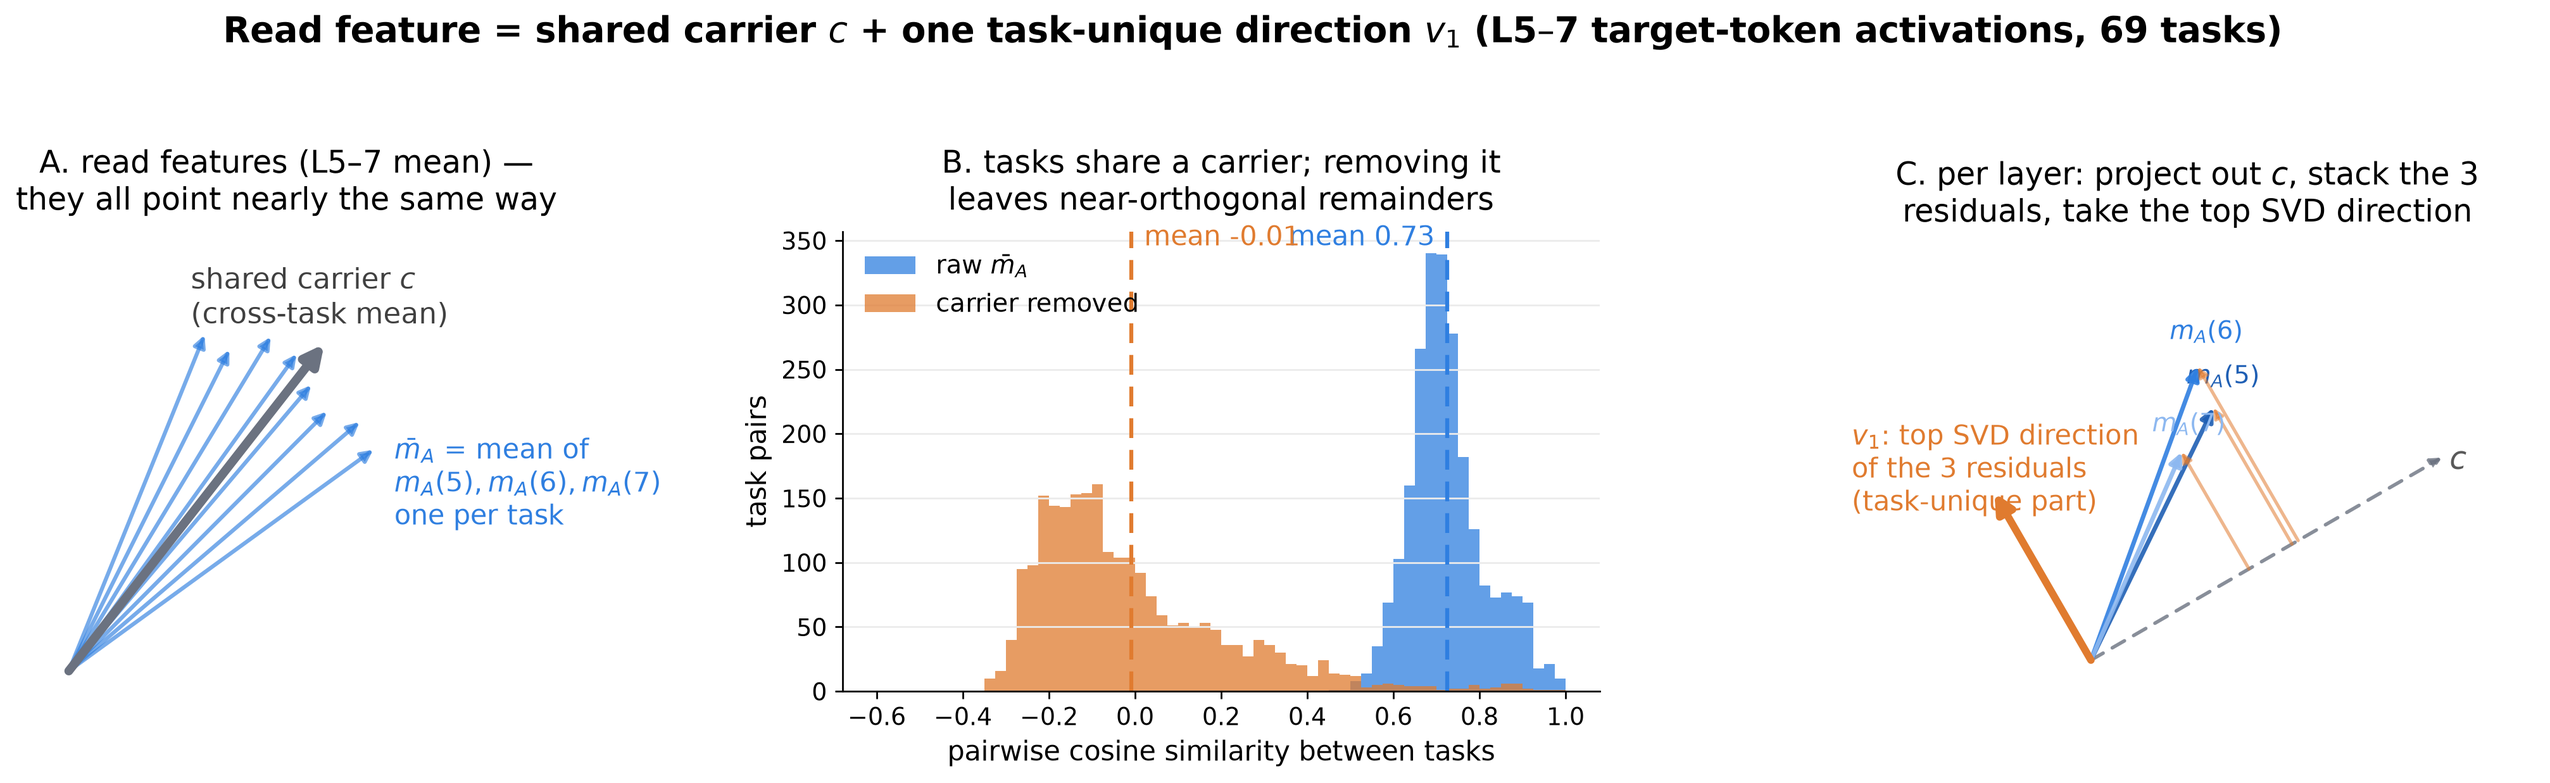
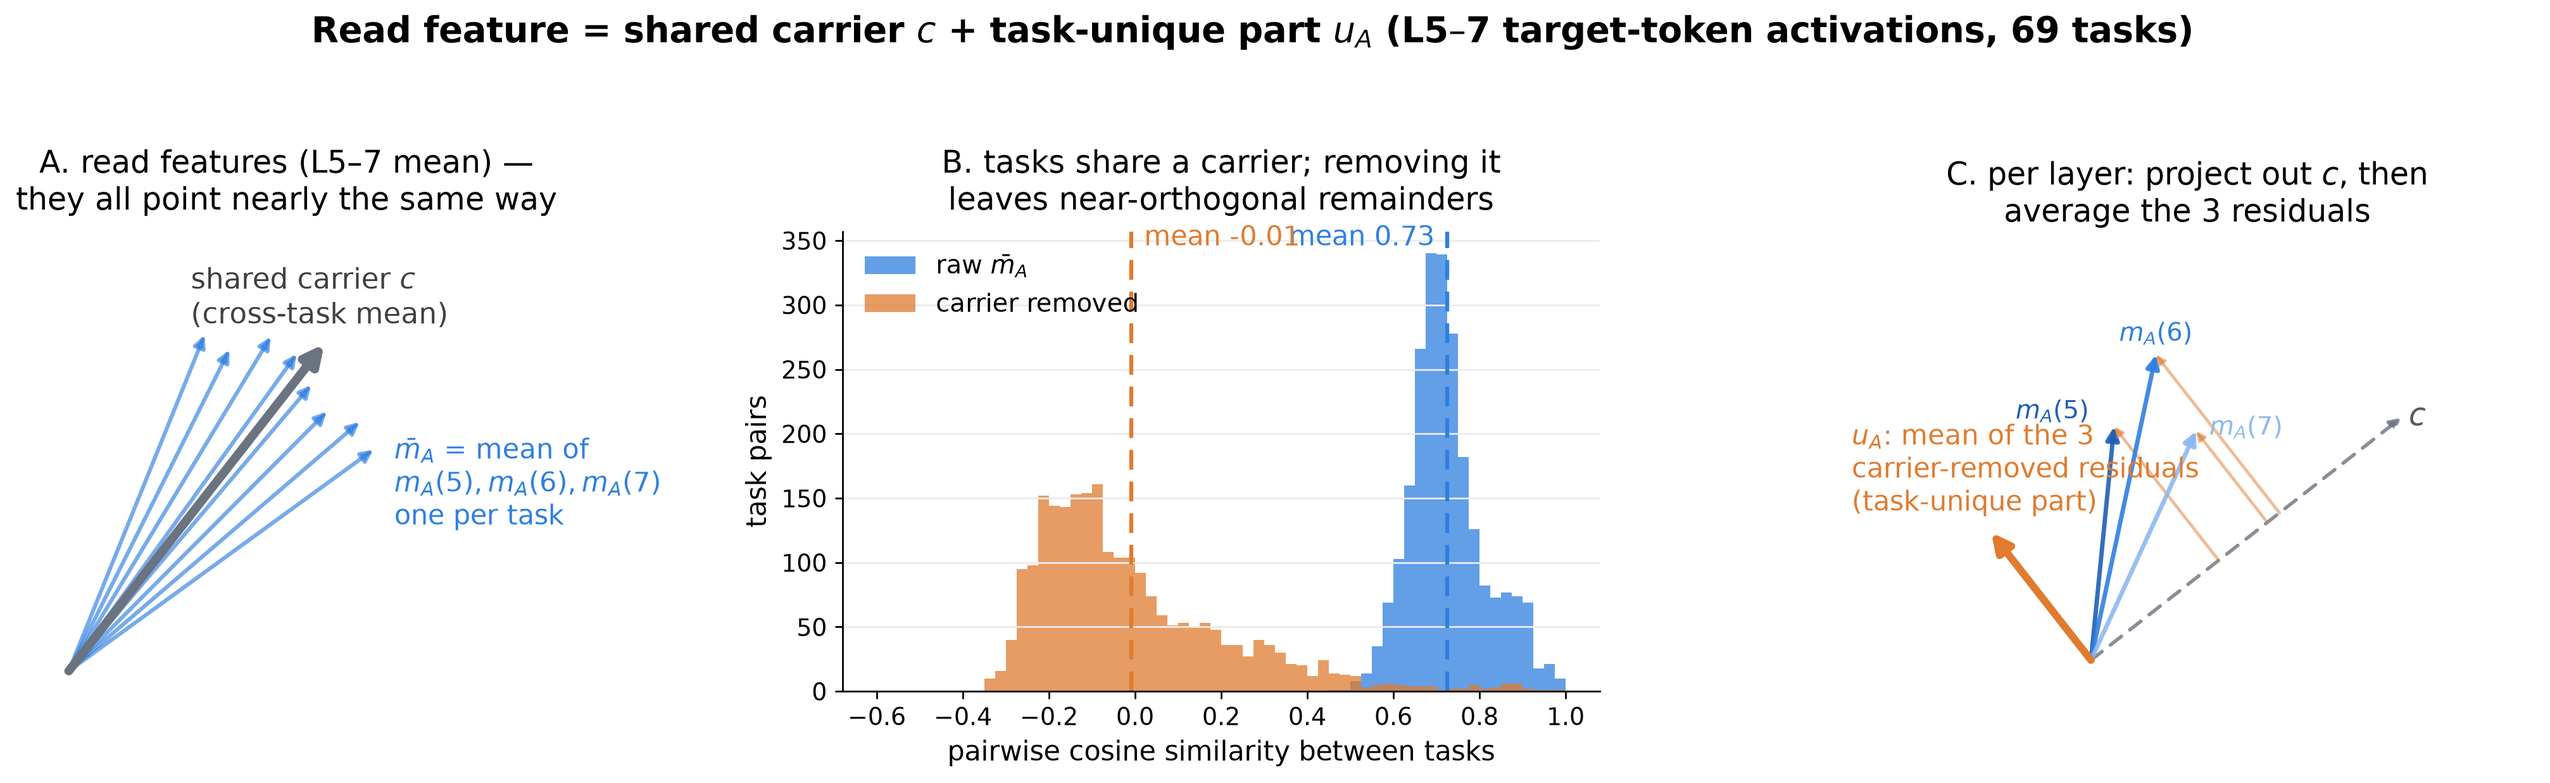
Task-unique part = mean of carrier-removed L5-7 residuals (u_A); s_A = c + u_A headline steering
Claim 3 main text switched from the SVD top-1 / n_A definition to the mean-residual
u_A (natural magnitude, no SVD). Ablation and L0 steering reproduce the SVD numbers
to <=0.002. Appendix I table gains the s_A row; SVD composite kept as labelled variant.
Explainer figure panel C now: project out c, then average the 3 residuals.

diff --git a/src/eval_scripts/make_readfeature_explainer.py b/src/eval_scripts/make_readfeature_explainer.py
@@ -142,32 +142,36 @@ def main():
     ax.set_title("B. tasks share a carrier; removing it\nleaves near-orthogonal remainders",
                  fontsize=14, pad=10)
 
-    # ---------- C: per-layer projection + stack + SVD (conceptual) ----------
+    # ---------- C: per-layer projection, then average (conceptual) ----------
     ax = axes[2]
-    th_c = np.deg2rad(30)
+    th_c = np.deg2rad(38)
     cdir = np.array([np.cos(th_c), np.sin(th_c)])
-    perp = np.array([-cdir[1], cdir[0]])                      # true task-unique direction
-    arrow(ax, 0, 0, *(1.05 * cdir), GRAY, lw=1.6, ls=(0, (4, 3)), alpha=0.8, head=10)
-    ax.annotate("$c$", 1.05 * cdir + np.array([0.02, -0.03]), fontsize=14, color="0.35")
+    perp = np.array([-cdir[1], cdir[0]])
+    arrow(ax, 0, 0, *(1.02 * cdir), GRAY, lw=1.6, ls=(0, (4, 3)), alpha=0.8, head=10)
+    ax.annotate("$c$", 1.02 * cdir + np.array([0.02, -0.02]), fontsize=14, color="0.35")
     cols = ("#1f5fb4", BLUE, "#8db8f0")
-    # three layer means: same carrier-ish component, slightly different residual sizes/tilts
-    specs = ((0.50, 0.42, -14), (0.62, 0.52, 0), (0.56, 0.36, 14))   # (along c, along perp, tilt deg)
+    specs = ((0.42, 0.44, -18), (0.62, 0.52, 0), (0.58, 0.30, 18))   # (along c, along perp, tilt deg)
+    resids = []
     for k, ((a, b, tilt), col) in enumerate(zip(specs, cols)):
-        rdir = np.array([np.cos(np.deg2rad(90 + 30 + tilt)), np.sin(np.deg2rad(90 + 30 + tilt))])
-        m = a * cdir + b * rdir
-        proj = float(m @ cdir) * cdir
+        rot = np.deg2rad(tilt)
+        r_dir = np.cos(rot) * perp + np.sin(rot) * cdir
+        r_dir = r_dir - (r_dir @ cdir) * cdir; r_dir /= np.linalg.norm(r_dir)
+        m = a * cdir + b * r_dir
+        proj = (m @ cdir) * cdir
         arrow(ax, 0, 0, *m, col, lw=2.0, alpha=0.9, head=12)
-        arrow(ax, *proj, *m, ORANGE, lw=1.5, alpha=0.55, head=9)   # residual = m - proj
-        ax.annotate(f"$m_A({5 + k})$", m * 1.08 + np.array([0.0, 0.01]), fontsize=11.5,
-                    color=col, ha="center")
-    arrow(ax, 0, 0, *(0.50 * perp), ORANGE, lw=3.4, head=17)
-    ax.annotate("$v_1$: top SVD direction\nof the 3 residuals\n(task-unique part)",
+        arrow(ax, *proj, *m, ORANGE, lw=1.4, alpha=0.5, head=8)
+        offs = (np.array([-0.16, 0.02]), np.array([0.0, 0.035]), np.array([0.13, -0.01]))[k]
+        ax.annotate(f"$m_A({5 + k})$", m + offs, fontsize=11.5, color=col, ha="center")
+        resids.append(m - proj)
+    u = np.mean(resids, axis=0)
+    arrow(ax, 0, 0, *u, ORANGE, lw=3.4, head=17)
+    ax.annotate("$u_A$: mean of the 3\ncarrier-removed residuals\n(task-unique part)",
                 (-0.62, 0.62), fontsize=12.5, color=ORANGE, ha="left", va="top")
     ax.set_xlim(-0.65, 1.15); ax.set_ylim(-0.05, 1.08)
-    ax.set_title("C. per layer: project out $c$, stack the 3\nresiduals, take the top SVD direction",
+    ax.set_title("C. per layer: project out $c$, then\naverage the 3 residuals",
                  fontsize=14, pad=10)
 
-    fig.suptitle("Read feature = shared carrier $c$ + one task-unique direction $v_1$ "
+    fig.suptitle("Read feature = shared carrier $c$ + task-unique part $u_A$ "
                  "(L5–7 target-token activations, 69 tasks)", fontsize=16, fontweight="bold")
     fig.tight_layout(rect=[0, 0, 1, 0.92])
     fig.savefig(OUT / "readfeature_decomposition.png", bbox_inches="tight")

diff --git a/src/eval_scripts/plot_69_taskunique_L5to7_top1.py b/src/eval_scripts/plot_69_taskunique_L5to7_top1.py
@@ -31,9 +31,10 @@ from src.utils.paths import ARTIFACTS_ROOT, TASK69_RUN_DIR  # noqa: E402
 
 import os
 _BANKA = os.environ.get("BANKA") == "1"
-AR = ARTIFACTS_ROOT / "69_task_run" / "bottom_up_ablation" / ("bankA_L5to7_top1" if _BANKA else "meanremoved_L5to7_top1")
+_MR = os.environ.get("MEANRESID") == "1"
+AR = ARTIFACTS_ROOT / "69_task_run" / "bottom_up_ablation" / ("bankA_meanresid_top1" if _MR else ("bankA_L5to7_top1" if _BANKA else "meanremoved_L5to7_top1"))
 ABL = TASK69_RUN_DIR / "bottom_up_read_features" / "ablation"
-OUT = ABL / "task_unique_top1_L5to7"
+OUT = ABL / ("task_unique_meanresid" if _MR else "task_unique_top1_L5to7")
 
 JSON_CONDS = ("mean_ablation_pc5", "zero_ablation_pc5",
               "cf_mean_ablation_pc5", "cf_zero_ablation_pc5")   # names inside the JSONs
@@ -56,7 +57,7 @@ def main():
         for n in (1, 6):
             r = json.load(open(AR / f"n{n}shot" / f"{t}.json"))
             assert r["n_prompts"] == 150 and r["cf_task"] == rows[t]["cf_task"]
-            assert r["rank"] == 1 and "L5to7_top1_bases" in r["bases_path"]
+            assert r["rank"] == 1 and ("meanresid_top1_bases" if _MR else "L5to7_top1_bases") in r["bases_path"]
             for jc, cc in zip(JSON_CONDS, MR1):
                 rows[t][f"n{n}_{cc}"] = r["conditions"][jc]["acc"]
 

diff --git a/src/eval_scripts/plot_l67top1_sixshot.py b/src/eval_scripts/plot_l67top1_sixshot.py
@@ -61,7 +61,7 @@ def main():
     def m(k):
         return float(np.mean([r[k] for r in rows]))
 
-    is_c = _NAME.startswith("ctop1")
+    is_c = _NAME.startswith(("ctop1", "meanresid"))
     lay = os.environ.get("L67_SIXSHOT_SUB", "sixshot").replace("sixshot_", "") or "L1"
     lay = lay if lay.startswith("L") else "L1"
     vname = "$u_A$" if is_c else "$w_A$"

diff --git a/write_up/read_and_write_features_for_in_context_learning_paper_draft.md b/write_up/read_and_write_features_for_in_context_learning_paper_draft.md
@@ -133,7 +133,7 @@ readable at target tokens (Claim 2). The dashed line is the mean accuracy of a r
 1-shot demonstration (0.208), so the single best-layer injection recovers a majority of real demonstration accuracy.*
 
 There is a peak of steering ability around L5-L7, so we take the mean activations of those
-three layers and decompose them. Averaging over the three layers gives one vector per task, $\bar m_A = \tfrac13\sum_{\ell=5}^{7} m_A(\ell)$, and these vectors are very similar across tasks - cosine similarity of 0.73. This suggests that all these activations point along a similar direction, which we call the **shared carrier** $c$, the cross-task mean. We then take each layer's mean activation from L5-L7 for each task and project out the shared carrier and stack the 3 vectors into a matrix and do SVD to extract the top SVD direction,  $v_1$. We define this as the task-unique part.
+three layers and decompose them. Averaging over the three layers gives one vector per task, $\bar m_A = \tfrac13\sum_{\ell=5}^{7} m_A(\ell)$, and these vectors are very similar across tasks - cosine similarity of 0.73. This suggests that all these activations point along a similar direction, which we call the **shared carrier** $c$, the cross-task mean. We then take each layer's mean activation from L5-L7 for each task, project out the shared carrier direction, and average the three residuals to get a single vector $u_A$. We define this as the task-unique part; it keeps its natural magnitude, so no further scaling is needed.
 
 $$
 c \;=\; \frac{1}{|\mathcal{T}|}\sum_{A'} \bar m_{A'}, \qquad
@@ -142,20 +142,22 @@ r_A(\ell) \;=\; m_A(\ell) - \big\langle m_A(\ell),\, \hat c(\ell)\big\rangle\, \
 $$
 
 $$
-v_1 \;=\; \text{top singular direction of } \begin{bmatrix} \hat r_A(5) \\ \hat r_A(6) \\ \hat r_A(7) \end{bmatrix}
-\quad (\hat r_A(\ell) = r_A(\ell)/\|r_A(\ell)\|),
+u_A \;=\; \frac{1}{3}\sum_{\ell=5}^{7} r_A(\ell),
 $$
 
-where $\hat c(\ell)$ is the **cross-task** carrier direction at layer $\ell$ and the SVD is over a $3 \times
-d_{\mathrm{model}}$ matrix with one row per layer.
+where $\hat c(\ell)$ is the **cross-task** carrier direction at layer $\ell$ — the task's own
+mean is never subtracted, only the shared component — so $u_A$ is orthogonal to the carrier
+by construction. (The top singular direction of the three residuals, an alternative
+definition, agrees with $\hat u_A$ to $|\cos| \ge 0.997$ on every task; Appendix F.)
 
 ![Read-feature decomposition into shared carrier and task-unique part](../results/69_task_run/bottom_up_read_features/ablation/explainer_visuals/readfeature_decomposition.png)
 
 **Necessity:** At every demonstration target token we ablate the projection of the residual stream onto the
-task's $v_1$. We find that this collapses 1-shot and 6-shot ICL, while removing a counterfactual
-task's $v_1$ leaves accuracy at baseline.
+task's unit direction $\hat u_A = u_A/\|u_A\|$. We find that this collapses 1-shot and 6-shot ICL
+(6-shot 0.629 → 0.132; 1-shot 0.208 → 0.044), while removing a counterfactual
+task's $\hat u_A$ leaves accuracy at baseline (0.632 / 0.205).
 
-![Task-unique L5–7 top-1 direction ablation, own vs counterfactual](../results/69_task_run/bottom_up_read_features/ablation/task_unique_top1_L5to7/aggregate_bars.png)
+![Task-unique direction ablation, own vs counterfactual](../results/69_task_run/bottom_up_read_features/ablation/task_unique_meanresid/aggregate_bars.png)
 
 *Ablating one task-unique direction kills the task's own ICL while the counterfactual control
 sits at baseline.* 
@@ -165,21 +167,21 @@ first attempt, but found that the counterfactual control performed equally as we
 motivation for the task-unique setup, and the full list of variations we tried are in
 Appendix F.
 
-**Sufficiency:** We use 6-shot prompts but replace the target tokens with dummy tokens (same as the 1 shot setting at the start of Claim 3). We then inject the carrier plus the task's single
-direction at its natural magnitude, $n_A = \langle \bar m_A - c,, v_1\rangle$ (the natural size of that component in the model's own activations),
+**Sufficiency:** We use 6-shot prompts but replace the target tokens with dummy tokens (same as the 1 shot setting at the start of Claim 3). We then inject the carrier plus the task-unique part, at the magnitude it has in the model's
+own activations,
 
 $$
-u_A \;=\; c + n_A\, v_1,
+s_A \;=\; c + u_A,
 $$
 
-$u_A$ is what we inject at every dummy target slot. We sweep steering strength $\alpha$ for for each layer we can inject and report the results of the best one. Swept over injection layers on the
-1-shot dummy prompts, $u_A$ steers best when injected early (L0–L3 plateau, see Appendix I) — earlier
+$s_A$ is what we inject at every dummy target slot. We sweep steering strength $\alpha$ for for each layer we can inject and report the results of the best one. Swept over injection layers on the
+1-shot dummy prompts, $s_A$ steers best when injected early (L0–L3 plateau, see Appendix I) — earlier
 than the L5–7 band it was built from; injecting at L5–7 instead still steers, at a modest
 cost (Appendix I, "injection layer").
 We inject it on 6-shot dummy prompts and find that it recovers 95%
 of what a real 6-shot prompt would achieve, which is significantly higher than the unsteered performance.
 
-![Steering dummy targets with the read feature: unsteered, steered, real demonstrations](../results/69_task_run/bottom_up_read_features/steering_results/ctop1/sixshot_L0/headline_bars.png)
+![Steering dummy targets with the read feature: unsteered, steered, real demonstrations](../results/69_task_run/bottom_up_read_features/steering_results/meanresid/sixshot_L0/headline_bars.png)
 
 So to recap: 
 1. We decompose the mean layer activations into a shared carrier direction and a task unique direction
@@ -200,22 +202,14 @@ site toward the task's function vector. More variants can be found in Appendix I
 
 ## Claim 5: Read features appear earlier than write features
 
-Presence maps — the mean cosine between the residual stream and each feature, by layer and
-token type, over clean 10-shot prompts — separate the two features in both depth and
-position. The task-unique read direction $v_1$ peaks at demonstration *target* tokens at
-layer 7 (cos 0.38) and is essentially absent at cue and input tokens (≤ 0.03 at every
-layer); the write feature peaks at *cue* tokens at layer 13 (cos 0.31; 0.35 at the query cue).
-The shared carrier, by contrast, is present at every token type (cos 0.6–0.7 through L8) and
-carries no positional task signal (Appendix I).
-Reading happens where target content sits, roughly seven layers before writing happens where
-the answer is produced.
+Now that we have defined our read and write features and shown that they are a causal mechanism for bidirectional control of the task, the next thing to pin down is the mechanistic story of where they appear in the residual stream. We study the mean cosine between the residual stream and each feature, by layer and token type, over clean 10-shot prompts - separate the two features in both depth and position. The task-unique read direction $v_1$ peaks at early layers of target tokens whilst the write features peak at the middle layers of cue tokens.
+
+Note: Since we have two axis for the read feature subspace, we measure cosine simlarity for each part (shared carrier and task-unique) separately.
 
 ![Read (task-unique direction at target tokens) vs write (function vector at cue tokens) presence by layer](../results/69_task_run/feature_locations/ctop1/presence_headline.png)
 
 The write-feature side of this picture is consistent with Todd et al. (2024), who find the
-causal FV heads clustered in early-middle layers and FV injection effective there (their
-Figures 3–4); the read feature, and the read-before-write depth ordering, have no
-counterpart in that paper.
+causal FV heads clustered in early-middle layers and FV injection most effective there.
 
 ## Claim 6: Read features linearly map to write features
 
@@ -582,7 +576,7 @@ identity. The reason is structural: read features are far more similar across ta
 function vectors are (mean pairwise cosine 0.727 vs 0.393; figure below), so any task's
 raw direction contains mostly the shared carrier, and removing it removes the same
 load-bearing shared component regardless of which task the direction came from. This is
-what forced the decomposition $m_A = \bar m + u_A$ used in Claim 3: ablate only the
+what forced the decomposition of $m_A$ into a shared carrier and a task-unique part used in Claim 3: ablate only the
 task-unique part and the counterfactual control lands exactly at baseline.
 
 ![Cross-task cosine similarity of read features vs FVs](../results/69_task_run/bottom_up_read_features/ablation/debugging/cossim_hist.png)
@@ -753,14 +747,15 @@ target slot shows the effect propagating forward with decay: the task-specific e
 alignment is largest at the very next cue (+0.047 at $\alpha=2$) and falls monotonically to
 +0.010 by the query cue — each demonstration's target refreshes a signal that would otherwise
 fade. Sources: `read_write_relationship/{bottom_up, bottom_up_1shot, bottom_up_firstlabel}/`.
-Under the main-text $u_A$ injection the rotation is larger (0.18 → 0.42; task-specific
+Under the main-text steering vector $s_A$ (measured with its SVD-variant twin $c + n_A v_1$, |cos| ≥ 0.997) the rotation is larger (0.18 → 0.42; task-specific
 excess +0.138 at $\alpha=2$); its 1-shot variant shows the same rotation at half strength ($\Delta\cos$ to own $v_A$ +0.121 at $\alpha=2$, vs +0.051 to the generic FV; task-specific excess positive on 68/69 tasks); `read_write_relationship/ctop1_1shot/`.
 
 ![Cue-token cosine under the raw $m_A(\mathrm{L6})$ injection](../results/69_task_run/read_write_relationship/bottom_up/headline_cos_absolute.png)
 
 **Read-feature steering variants (6-shot dummy-target scaffold, 69-task means).** The
-main text reports the carrier + one-direction vector $u_A$; the other vectors built from
-the read feature, all on the same scaffold and readout:
+main text reports $s_A = c + u_A$ (carrier plus the mean of the three carrier-removed L5–7
+residuals); the other vectors built from the read feature, all on the same scaffold and
+readout:
 
 | Steering vector | injected at | best acc |
 |---|---|---:|
@@ -769,25 +764,31 @@ the read feature, all on the same scaffold and readout:
 | Shared carrier alone | any | ≤ 0.013 |
 | Single-direction swap $\alpha\, s_1 v_1$ (removes natural component first) | L6 | 0.327 |
 | $w_A$ = task's own L6/7 mean + $n_A v_1$ (doubles the $v_1$ component) | L1 | 0.583 |
-| **$u_A$ = carrier $c$ + $n_A v_1$ (main text)** | L0 | **0.596** |
+| $c + n_A v_1$: carrier + top SVD direction $v_1$ at coefficient $n_A = \langle \bar m_A - c, v_1\rangle$ | L0 | 0.596 |
+| **$s_A = c + u_A$ (main text)** | L0 | **0.597** |
 | Real 6-shot demonstrations | — | 0.630 |
 
-The two composites ($w_A$, $u_A$) were located by a 1-shot injection-layer sweep (all 28
-layers, $\alpha \in \{0.5,1,2,4\}$, per-task best $\alpha$): both sit on an L0–L3 plateau
+The SVD composite $c + n_A v_1$ and the main-text $s_A$ are the same vector to within
+|cos| ≥ 0.997 per task ($\hat u_A$ and $v_1$ agree at median |cos| 0.9993, and ‖$u_A$‖ ≈ |$n_A$|),
+and they steer identically (6-shot L0: 0.570 vs 0.570 at $\alpha=2$; 0.596 vs 0.597 at
+per-task best $\alpha$; ablation 0.130 vs 0.132). The two composites ($w_A$ and
+$c + n_A v_1$) were located by a 1-shot injection-layer sweep (all 28 layers,
+$\alpha \in \{0.5,1,2,4\}$, per-task best $\alpha$): both sit on an L0–L3 plateau
 (0.220 and 0.195 respectively; the matched-site raw mean $m_A(\ell)$ peaks at 0.126 at L6)
-and are dead from L12. $u_A$ is the shorter vector (‖$u_A$‖ ≈ 55 vs ≈ 79) and prefers
+and are dead from L12. $s_A$ is the shorter vector (‖$s_A$‖ ≈ 55 vs ≈ 79) and prefers
 $\alpha = 2$; $w_A$ additionally carries the task's residual unique directions and twice the
-$v_1$ component, which helps on a single slot (+0.025 at 1 shot) but not at six. Not yet
-run: the full mean injected at L0/L1 (to separate the injection-layer effect from the
-vector composition) and $c + 2 n_A v_1$ (to match $w_A$'s $v_1$ dose).
+task-unique component, which helps on a single slot (+0.025 at 1 shot) but not at six. Not
+yet run: the full mean injected at L0/L1 (to separate the injection-layer effect from the
+vector composition) and $c + 2 u_A$ (to match $w_A$'s dose).
 
 ![All read-feature steering vectors on the 6-shot dummy scaffold](../results/69_task_run/bottom_up_read_features/steering_results/ctop1/sixshot_L0/sixshot_bars.png)
 
-![$u_A$ injection-layer sweep, 1-shot](../results/69_task_run/bottom_up_read_features/steering_results/ctop1/sweep_layer_curve.png)
+![$c + n_A v_1$ injection-layer sweep, 1-shot](../results/69_task_run/bottom_up_read_features/steering_results/ctop1/sweep_layer_curve.png)
 
-**Injection layer (6-shot, $u_A$).** The 1-shot sweep picks L0–L3, but $u_A$ is built from
+**Injection layer (6-shot, $s_A$).** The 1-shot sweep picks L0–L3, but $s_A$ is built from
 L5–7 activations, so we also injected it at each of L5, L6 and L7 on the 6-shot scaffold
-(same vector, same prompts, same readout):
+(same vector, same prompts, same readout; run with the SVD-variant twin $c + n_A v_1$, which
+matches $s_A$ to 0.001 at L0):
 
 | injection layer | $\alpha=2$ | $\alpha=4$ | per-task best $\alpha$ |
 |---|---:|---:|---:|
@@ -803,8 +804,8 @@ better — but the penalty is about half what the 1-shot sweep suggested (−15/
 −31/−33/−45%): six steered slots saturate the effect. Second, the preferred dose shifts with
 depth (α=2 at L0–L1, α=4 at L5–7; α=1 barely ignites at depth), consistent with a fixed
 vector needing more push the fewer blocks remain to process it. Third, injected in its own
-band $u_A$ still beats (L5, L6) or matches (L7) the full read feature $m_A(\mathrm{L6})$
-injected at L6 (0.447) — so part of $u_A$'s advantage in the main text comes from injecting
+band $s_A$ still beats (L5, L6) or matches (L7) the full read feature $m_A(\mathrm{L6})$
+injected at L6 (0.447) — so part of $s_A$'s advantage in the main text comes from injecting
 early, and part from its composition; at matched layer the composition alone is worth
 ~0.03. Held-out ≥ train at every layer. Source: `steering_results/ctop1/sixshot_L{0,1,5,6,7}/`
 and `sixshot_by_layer.png`.
@@ -813,10 +814,10 @@ and `sixshot_by_layer.png`.
 and each direction, by layer and token type (69-task means). The carrier $c$ is present
 everywhere target-like content sits and even at cue and input tokens (0.6–0.7 through L8,
 decaying after) — it is a generic "ICL context" component with no positional task identity.
-The task-unique direction $v_1$ is a target-token phenomenon: 0.38 at L7 at target tokens
+The task-unique direction $\hat u_A$ is a target-token phenomenon: 0.38 at L7 at target tokens
 versus ≤ 0.03 at cue and input tokens. The write feature $v_A$ is a cue-token phenomenon
-peaking at L13. ($v_1$'s SVD sign is arbitrary; it is oriented along the task's own
-carrier-removed read feature for these plots.) Under the previous raw-mean definition the
+peaking at L13. (Presence was captured with the SVD variant $v_1$, oriented along the task's
+own carrier-removed read feature; it agrees with $\hat u_A$ to |cos| ≥ 0.997.) Under the previous raw-mean definition the
 read presence at target tokens peaked at L6 with cos 0.80 — almost all of it carrier.
 
 ![Presence of the carrier, the task-unique direction and the function vector, by token type](../results/69_task_run/feature_locations/ctop1/presence_full.png)
@@ -835,7 +836,7 @@ underscore-echoes (0.055 vs 0.018) with *identical* own-pool mapping-error rates
 0.137), and over half the gap is degraded on-task attempts. The surviving interpretation is
 a ratio-preserving composite code: carrier and code arrive together at a preserved
 proportion in natural prompts, and downstream machinery is calibrated to that composition —
-which is exactly what $u_A$ re-imposes at its natural coordinate.
+which is exactly what $s_A$ re-imposes at its natural coordinate.
 
 ![Single task-unique direction swap steering, alpha curve](../results/69_task_run/bottom_up_read_features/steering_results/taskunique_svd_dummy/alpha_curve.png)
 
